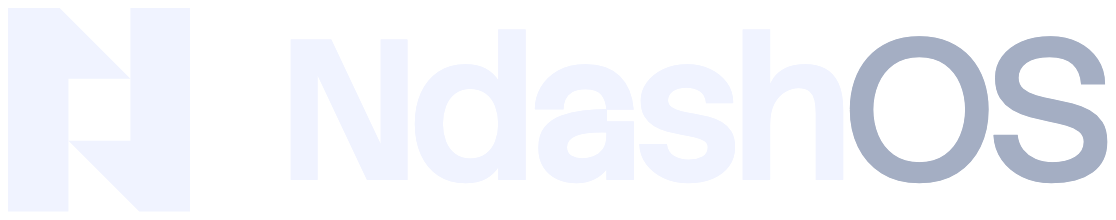
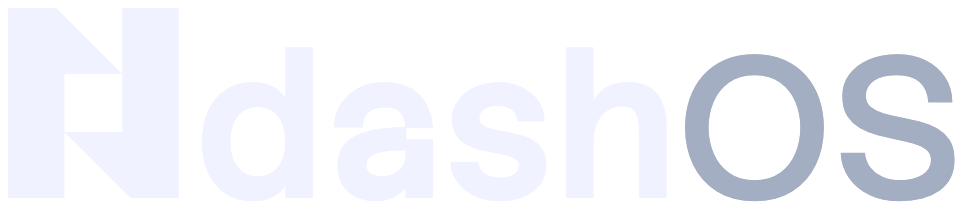
Draw the N in Ndash as the Notice mark, with open spacing
The Notice mark now takes the place of the N in every Ndash wordmark: the
app header and the TV board ("dash" and the accent dot) and the NdashOS boot
splash and status bar ("dash" and a lighter "OS"). The mark stands on the
baseline at 0.95em, above the capitals, followed by the N's own side bearing.

The letters are spaced at +0.02em everywhere. The tight tracking ran the
status bar's letters together at its small size. The status bar's lockup
column shrinks with the narrower image, in the box and in the docs' picture.

Claude-Session: https://claude.ai/code/session_01MmDNk3zfNw34HNYzj44RGv

Changed region(s): [[0.6854, 0.1429, 0.9969, 0.9714]]

diff --git a/brand/lockup.html b/brand/lockup.html
@@ -1,19 +1,16 @@
 <!doctype html>
-<!-- The NdashOS lockup, drawn the way NoticeOS draws its own (BrandLockup): the Notice mark, then the
-     name in Stack Sans Notch, "Ndash" at 600 with tight tracking and the suffix lighter in the muted ink.
-     render.sh fills in @FONT@ (base64 woff2), @SUFFIX@, @SIZE@ (font size in px) and @BACKGROUND@. -->
+<!-- The NdashOS lockup: the Notice mark in place of the N, then "dash" in Stack Sans Notch at 600 and
+     the suffix lighter in the muted ink. The mark stands on the baseline at 0.95em, above the
+     capitals (0.7em), followed by the N's own side bearing (7.5% of the mark's height) and the
+     tracking. render.sh fills in @FONT@ (base64 woff2), @SUFFIX@, @SIZE@ (font size in px) and
+     @BACKGROUND@. -->
 <html><head><meta charset="utf-8"><style>
 @font-face { font-family: "Stack Sans Notch"; src: url(data:font/woff2;base64,@FONT@) format("woff2"); font-weight: 100 900; }
 html, body { margin: 0; width: 3840px; height: 2160px; background: @BACKGROUND@; }
 body { display: flex; align-items: center; justify-content: center; }
-.lockup { display: inline-flex; align-items: center; gap: 0.45em; color: #f0f3ff; white-space: nowrap; line-height: 1.2; font-size: @SIZE@px; }
-/* 1.4 capitals of the surrounding Inter (cap height 0.727em). */
-.mark { flex-shrink: 0; height: calc(1.4 * 0.727em); width: auto; aspect-ratio: 354 / 394; }
-.name { font-family: "Stack Sans Notch"; font-weight: 600; letter-spacing: -0.04em; }
+.lockup { color: #f0f3ff; white-space: nowrap; line-height: 1.2; font-size: @SIZE@px; font-family: "Stack Sans Notch"; font-weight: 600; letter-spacing: 0.02em; }
+.mark { height: 0.95em; width: auto; aspect-ratio: 354 / 394; margin-right: calc(0.95 * 0.075em + 0.02em); }
 .suffix { font-weight: 400; color: #a4aec3; }
 </style></head><body>
-<span class="lockup">
-  <svg viewBox="0 0 354 394" class="mark"><path fill-rule="evenodd" fill="currentColor" d="M0 0H354V394H0ZM100 0H237V137ZM117 137H237V257H117ZM117 257V394H254Z"/></svg>
-  <span class="name">Ndash<span class="suffix">@SUFFIX@</span></span>
-</span>
+<span class="lockup"><svg viewBox="0 0 354 394" class="mark"><path fill-rule="evenodd" fill="currentColor" d="M0 0H354V394H0ZM100 0H237V137ZM117 137H237V257H117ZM117 257V394H254Z"/></svg>dash<span class="suffix">@SUFFIX@</span></span>
 </body></html>

diff --git a/docs/images/src/statusbar.html b/docs/images/src/statusbar.html
@@ -20,7 +20,7 @@
 }
 .field { display: flex; align-items: center; gap: 8.4px; white-space: nowrap; height: 24px; }
 .field img { width: 15.6px; height: 15.6px; }
-.field img.lockup { width: 88.2px; height: 16.8px; }
+.field img.lockup { width: 77.4px; height: 16.2px; }
 .ip { color: #e8b04c; }
 .legend { display: flex; margin-top: 14px; padding-left: 8.4px; }
 .legend div {
@@ -41,7 +41,7 @@
   <p class="subtitle">Bottom right of the screen: how the box is doing, at a glance</p>
   <!-- Column widths: install.sh's at 3840 px, times 0.6. -->
   <div class="bar">
-    <div class="field" style="width:123px"><img class="lockup" src="../../../os/rootfs/usr/share/ndash/statusbar-lockup.png" alt=""></div>
+    <div class="field" style="width:111px"><img class="lockup" src="../../../os/rootfs/usr/share/ndash/statusbar-lockup.png" alt=""></div>
     <div class="field ip" style="width:135px"><img src="../../../os/rootfs/usr/share/ndash/icons/ip.png" alt="">192.168.1.50</div>
     <div class="field" style="width:75px"><img src="../../../os/rootfs/usr/share/ndash/icons/wifi.png" alt="">82%</div>
     <div class="field" style="width:78px"><img src="../../../os/rootfs/usr/share/ndash/icons/temp.png" alt="">54°C</div>

diff --git a/app/src/style.css b/app/src/style.css
@@ -95,10 +95,19 @@ button svg {
   font-family: 'Stack Sans Notch', Inter, sans-serif;
   font-weight: 500;
   font-size: 25px;
-  letter-spacing: -1.2px;
+  letter-spacing: 0.02em;
   display: inline-flex;
   align-items: baseline;
   white-space: nowrap;
+}
+/* The Notice mark as the wordmark's N: 0.95em tall on the baseline, above the capitals (0.7em),
+   followed by the N's own side bearing (7.5% of the mark's height) and the wordmark's tracking. */
+.wordmark-n {
+  height: 0.95em;
+  width: auto;
+  aspect-ratio: 354 / 394;
+  flex-shrink: 0;
+  margin-right: calc(0.95 * 0.075em + 0.02em);
 }
 .wordmark > i {
   width: 4px;
@@ -1841,7 +1850,7 @@ button svg {
   font-size: 16px;
   color: var(--muted);
   font-weight: 450;
-  letter-spacing: -0.7px;
+  letter-spacing: 0.02em;
 }
 .board-wordmark > i {
   width: 3px;

diff --git a/app/src/Dashboard.tsx b/app/src/Dashboard.tsx
@@ -27,6 +27,7 @@ import type { HomeAssistantData } from '../shared/home-assistant';
 import { isRichWidget, widgetEntityIds } from '../shared/rich-widgets';
 import { numeric, temperatureValue } from '../shared/ha-data';
 import { RichWidgetView } from './RichWidgets';
+import { NoticeMark } from './NoticeMark';
 
 export function useNow(interval = 1000) {
   const [now, setNow] = useState(() => new Date());
@@ -133,8 +134,9 @@ export function Dashboard({
         })}
       </div>
       <footer className="dashboard-footer">
-        <span className="board-wordmark">
-          Ndash
+        <span className="board-wordmark" role="img" aria-label="Ndash">
+          <NoticeMark className="wordmark-n" />
+          dash
           <i />
         </span>
         <span>

diff --git a/app/src/ui.tsx b/app/src/ui.tsx
@@ -1,12 +1,14 @@
 import { useEffect, useRef, useState, type ReactNode } from 'react';
 import { X } from 'lucide-react';
 import type { Dashboard as DashboardData } from '../shared/dashboard';
+import { NoticeMark } from './NoticeMark';
 import { Dashboard } from './Dashboard';
 
 export function Wordmark() {
   return (
-    <span className="wordmark">
-      Ndash
+    <span className="wordmark" role="img" aria-label="Ndash">
+      <NoticeMark className="wordmark-n" />
+      dash
       <i />
     </span>
   );

diff --git a/app/src/NoticeMark.tsx b/app/src/NoticeMark.tsx
@@ -1,0 +1,12 @@
+/** The Notice mark, in the current ink. In the Ndash wordmark it stands in for the N. */
+export function NoticeMark({ className }: { className?: string }) {
+  return (
+    <svg viewBox="0 0 354 394" className={className} aria-hidden="true" focusable="false">
+      <path
+        fillRule="evenodd"
+        fill="currentColor"
+        d="M0 0H354V394H0ZM100 0H237V137ZM117 137H237V257H117ZM117 257V394H254Z"
+      />
+    </svg>
+  );
+}
